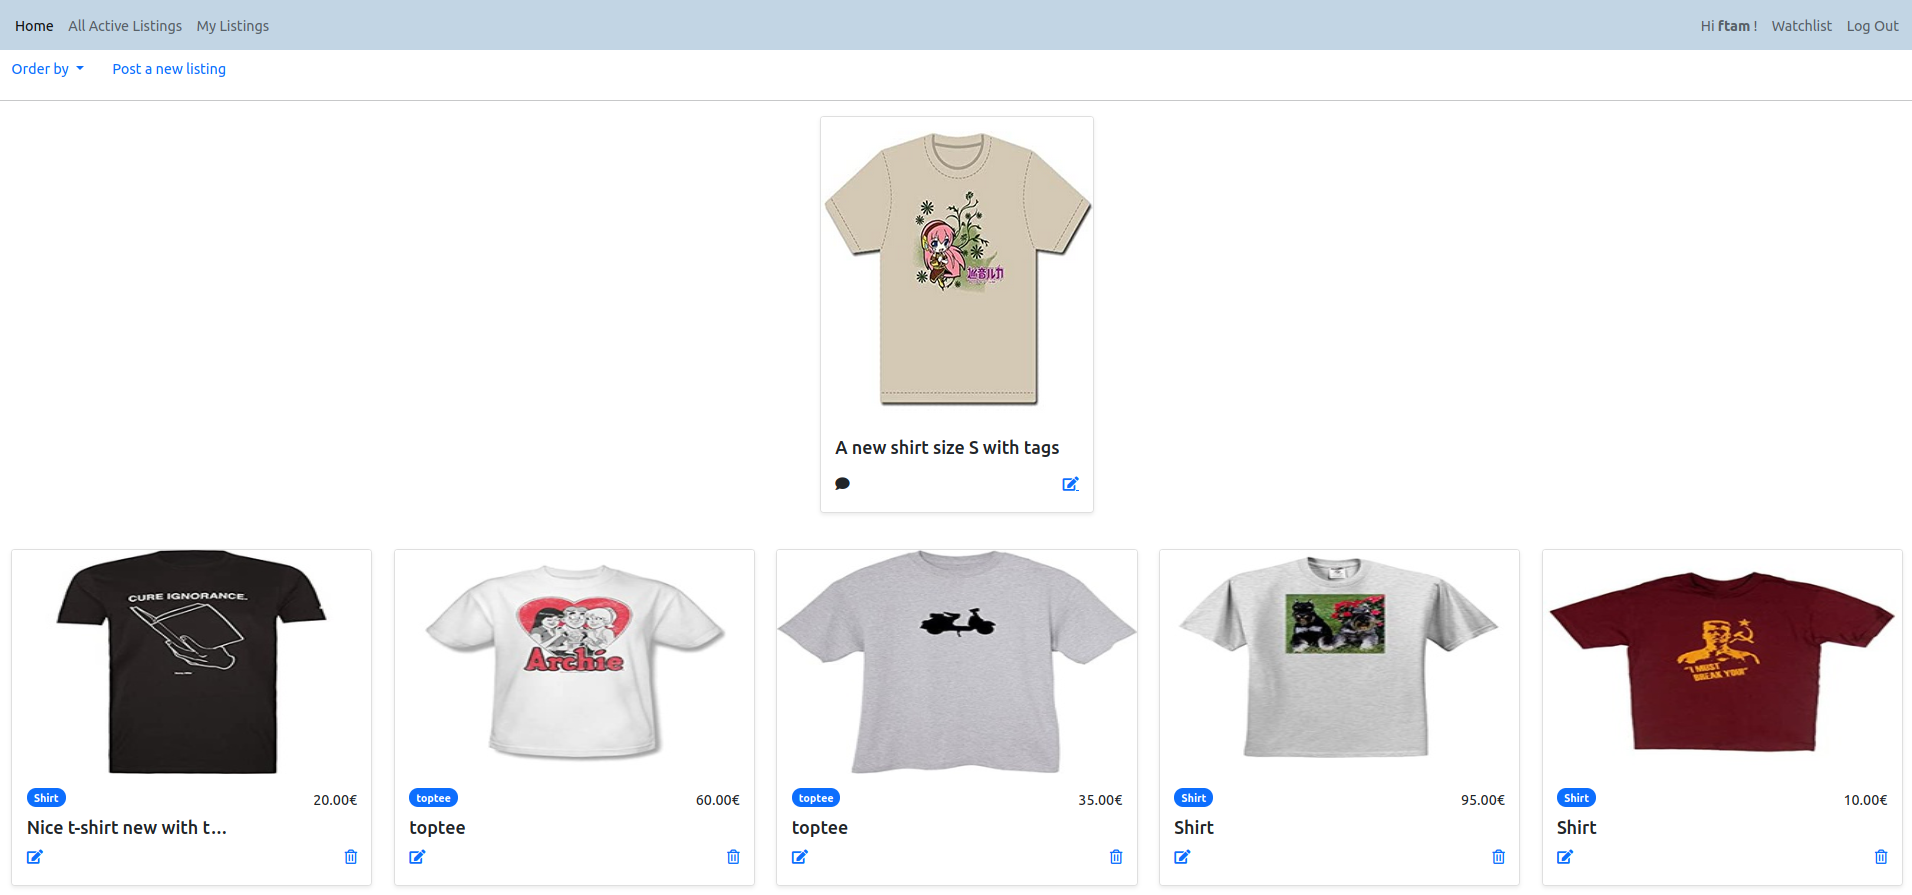
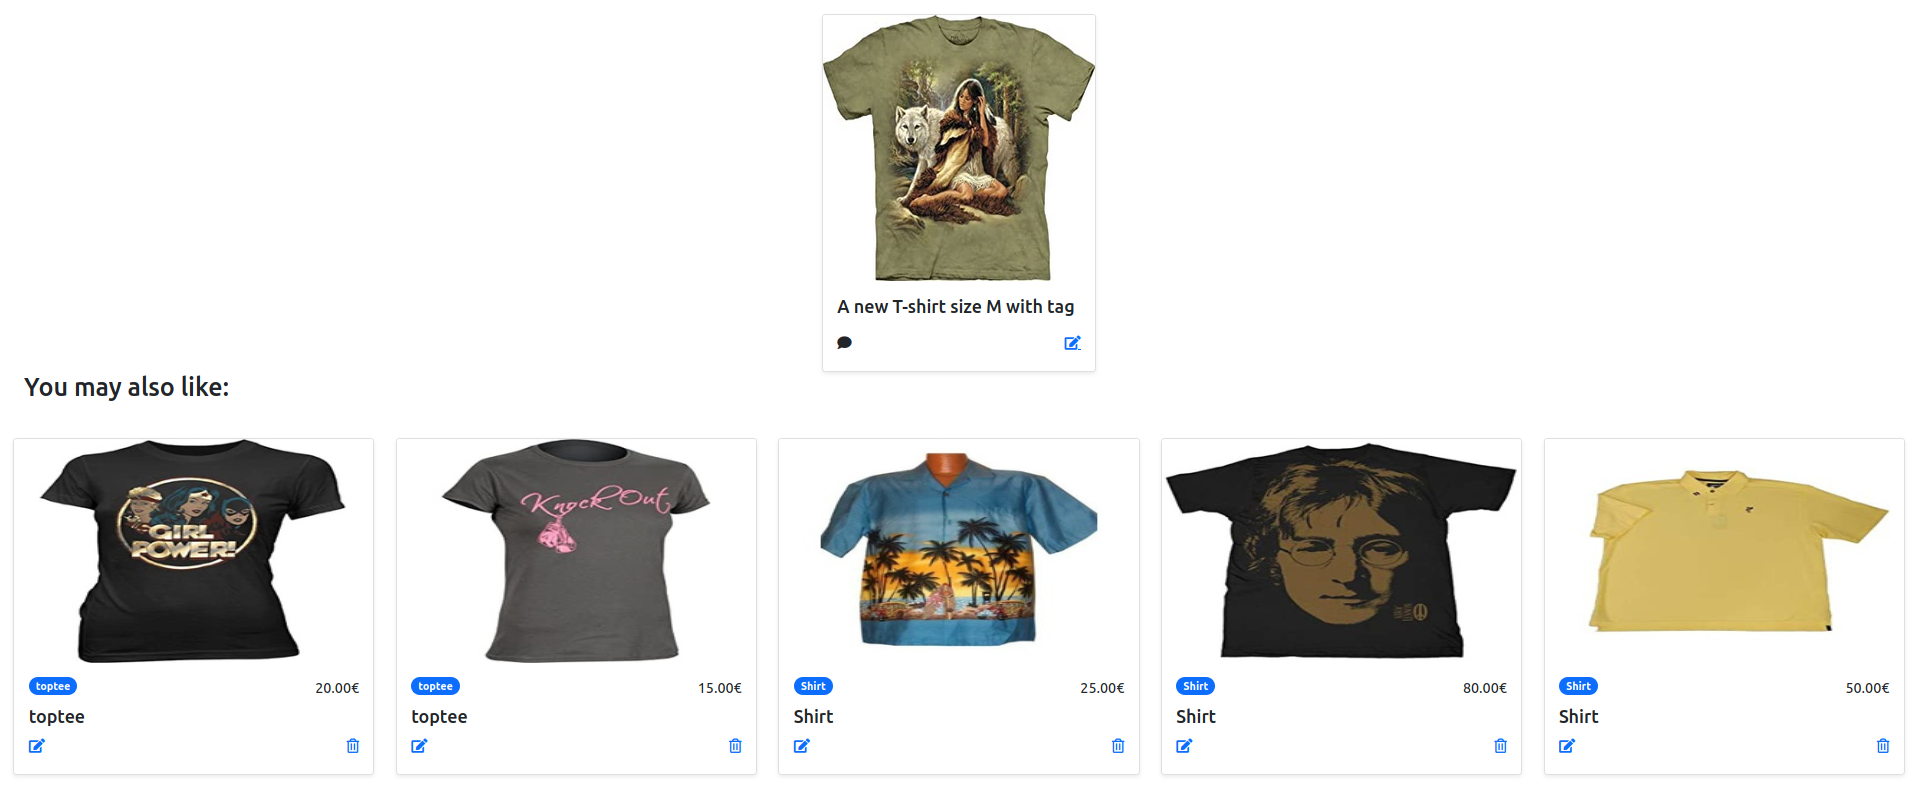
readme prep

diff --git a/feira/fair/templates/fair/listing.html b/feira/fair/templates/fair/listing.html
@@ -39,6 +39,9 @@
 
 
     <!-- Recommendations -->
+    {% if recommendations %}
+        <h3 style="margin-left: 1em;">You may also like:</h3> 
+    {% endif %}
     <div class="container-fluid bg-trasparent my-4 p-3" style="position: relative min-width: 18rem;"">
         <div class="row d-flex justify-content-center">
             <!-- row-cols-1 row-cols-xs-2 row-cols-sm-2 row-cols-lg-4 g-3  -->

diff --git a/README.md b/README.md
@@ -47,42 +47,33 @@ Feira currently supports two main applications:
 > Note: The current recommendation system uses the images only. A hybrid architecture will be developed to include both image, text, and other data types for a more accurate recommendations.
 
 <p align="center">
+  <img src="images/recommendations_1.png">
+</p>
+
+<p align="center">
   <img src="images/recommendations_2.png">
 </p>
 
 <p align="center">
   <img src="images/recommendations_3.png">
 </p>
+   
 
 <p align="center">
   <img src="images/recommendations_4.png">
 </p>
-   
+
 
 <p align="center">
   <img src="images/recommendations_5.png">
 </p>
 
+<p align="center">
+  <img src="images/recommendations_6.png">
+</p>
 
 <p align="center">
   <img src="images/recommendations_7.png">
-</p>
-
-<p align="center">
-  <img src="images/recommendations_8.png">
-</p>
-
-<p align="center">
-  <img src="images/recommendations_10.png">
-</p>
-
-<p align="center">
-  <img src="images/recommendations_11.png">
-</p>
-
-
-<p align="center">
-  <img src="images/recommendations_ts.png">
 </p>
 
 ### Recommendations:
